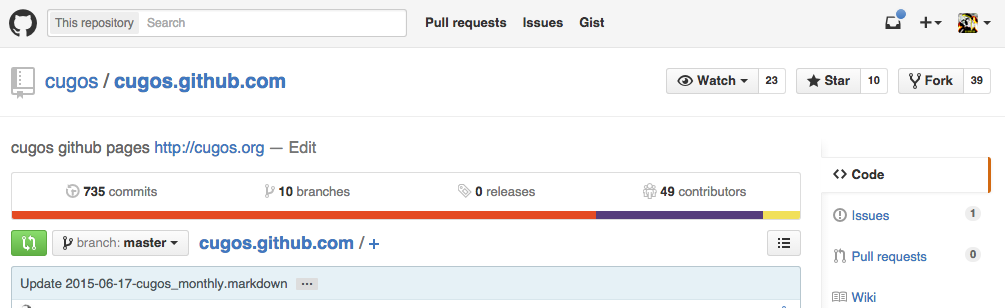
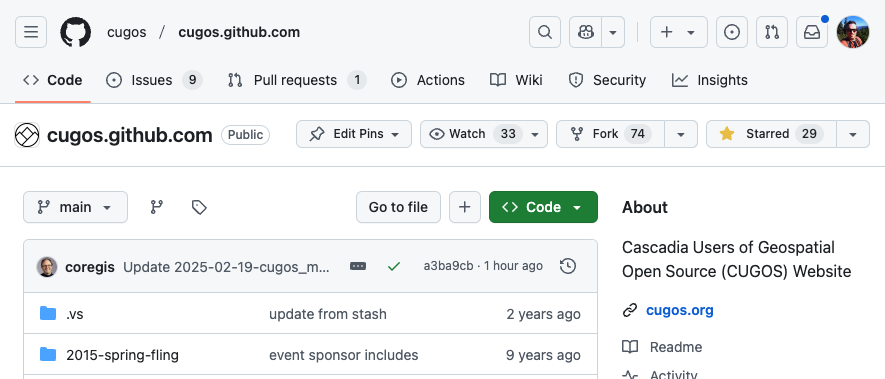
Updated the README for adding your profile to show more recent GitHub UX
I will need to follow up with the screen shots for opening the PR in a separate PR after deleting and recreating my fork because I did not have the foresight to take THOSE screenshots the first time through.

diff --git a/people/README.md b/people/README.md
@@ -9,7 +9,7 @@
 0. Fork the `cugos.github.com` repository<br/>
 ![fork it](image/fork_it.png)
 
-0. When prompted, fork it to your account<br/>
+0. When prompted, choose your own account as the new fork owner, and leave "Copy the main branch only" checked.<br/>
 ![fork it to you](image/fork_it_to_you.png)
 
 0. You will be redirected to your forked repository page<br/>
@@ -18,7 +18,7 @@
 0. We want to add our profile to the `people` directory<br/>
 ![people](image/people.png)
 
-0. First copying the URL that we will use to clone our forked repository<br/>
+0. First click the "Code" dropdown, and copy the URL that we will use to clone our forked repository<br/>
 ![clone_repo](image/clone_repo.png)
 
 0. Then in a bash shell on your computer find a good working directory. Clone your forked respository and follow the rest of the edit, commit, push and pull request workflow below. FYI: you will need to install `git` on your computer<br/>
@@ -47,7 +47,7 @@ $ cd people/_posts/
 
 Copy the lastest profile and swap it out with your information. Use [bboxfinder](http://bboxfinder.com) to find your coordinates if necessary<br/>
 ```bash
-$ cp 2015-06-19-aaron-racicot.markdown 2015-06-20-first-last.mardown
+$ cp 2018-11-10-ranek_kiil.markdown 2025-02-20-tim-johns.markdown
 ---
  
 title: < your name >
@@ -64,7 +64,7 @@ excerpt: < your description >
 
 `git` add the file to staging<br/>
 ```bash
-$ git add 2015-06-20-first-last.mardown
+$ git add 2025-02-20-<first>-<last>.markdown
 ```
 
 `git` commit the file with a commit message<br/>
@@ -77,7 +77,7 @@ $ git commit -m "adding myself, because CUGOS rocks"
 $ git push origin add_my_profile # or whatever your branch name is 
 ```
 
-Then go back to the GitHub page of your forked repository, change to the master branch and refresh. You should see something like:<br/>
+Then go back to the GitHub page of your forked repository, change to the main branch and refresh. You should see something like:<br/>
 ![pull_request](image/pull_request.png)
 
 Click that green button. Now add a commit message
